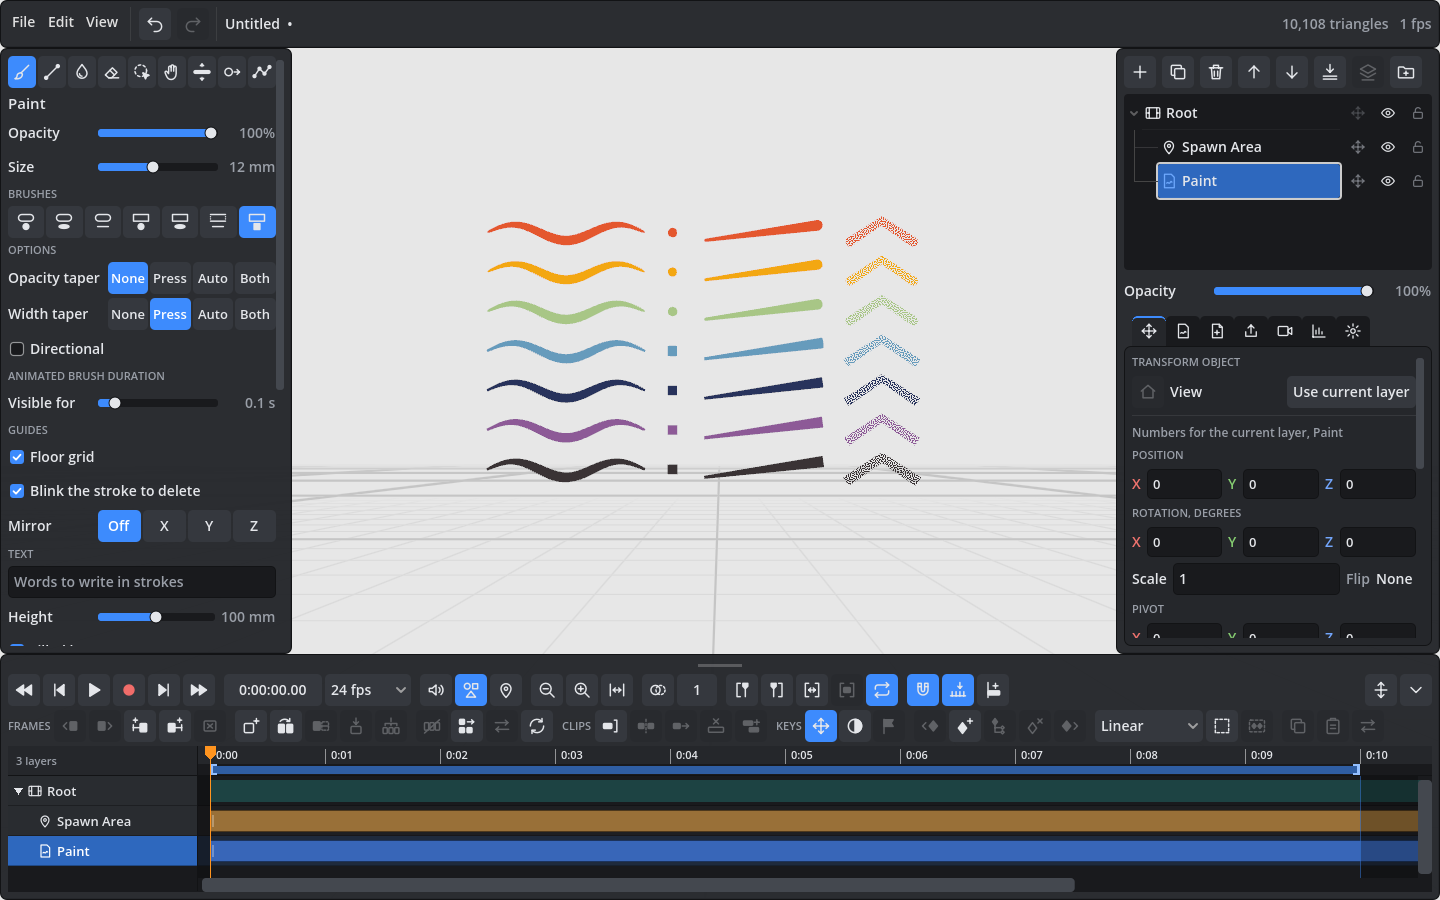
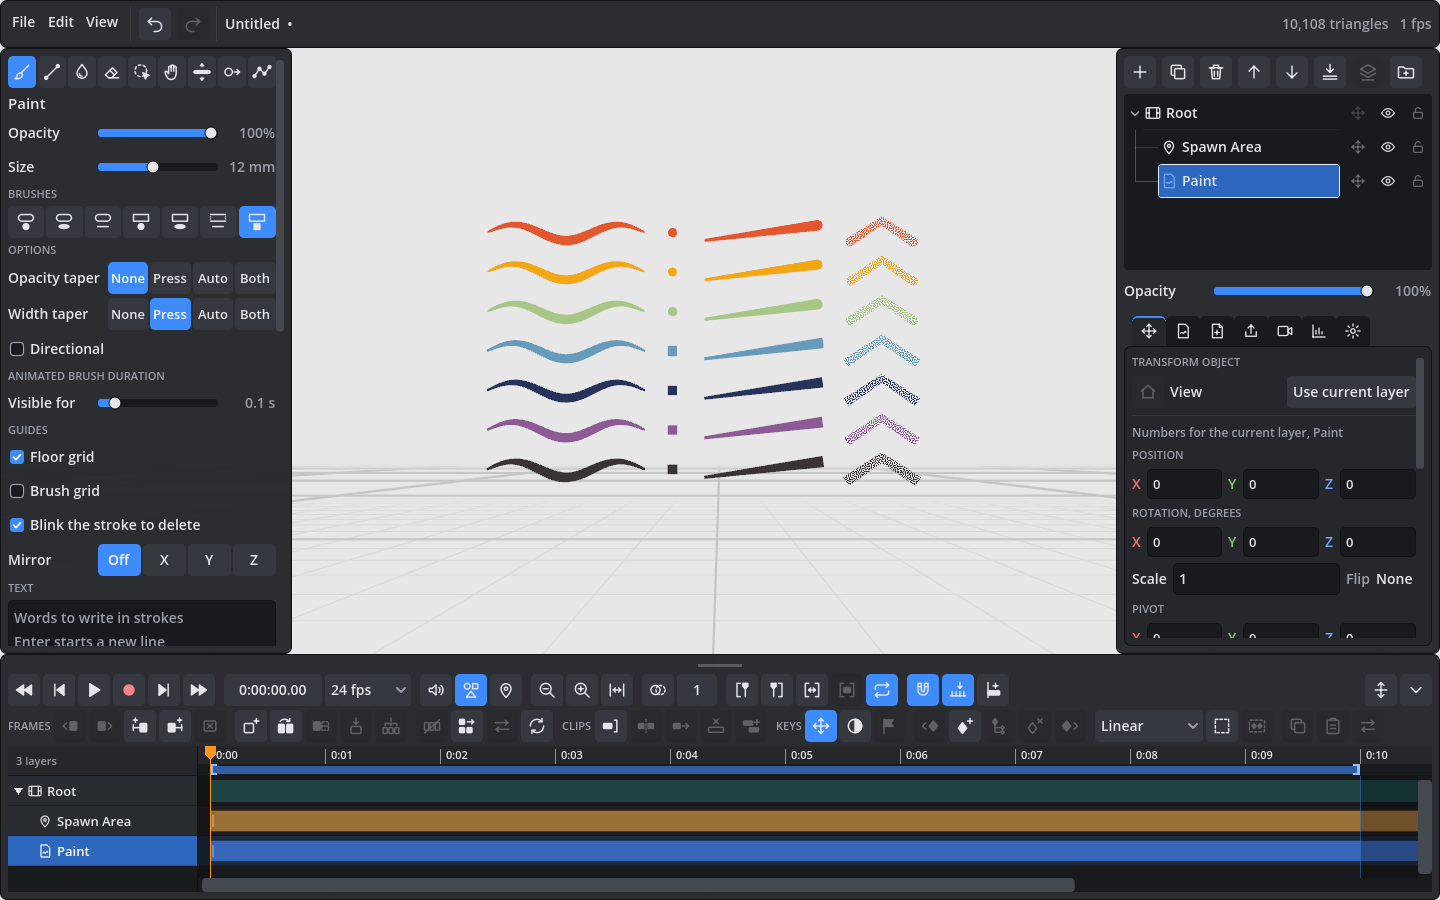
README screenshots of the current interface, dark and light

diff --git a/README.md b/README.md
@@ -74,9 +74,12 @@ Export to glTF, USD/USDZ, FBX and OBJ with hierarchy, animation, lights and came
 ## A look
 
 <p align="center">
-  <img src="docs/images/desktop.png" alt="The desktop interface: tools on the left, layers and properties on the right, the timeline below" width="860">
+  <picture>
+    <source media="(prefers-color-scheme: light)" srcset="docs/images/desktop-light.png">
+    <img src="docs/images/desktop.png" alt="The desktop interface: tools on the left, layers and properties on the right, the timeline below" width="860">
+  </picture>
 </p>
-<p align="center"><sub>The desktop interface. The same panels ride on the hand in a headset.</sub></p>
+<p align="center"><sub>The desktop interface, in the dark or light scheme to match your GitHub theme. The same panels ride on the hand in a headset.</sub></p>
 
 ## Getting started
 
